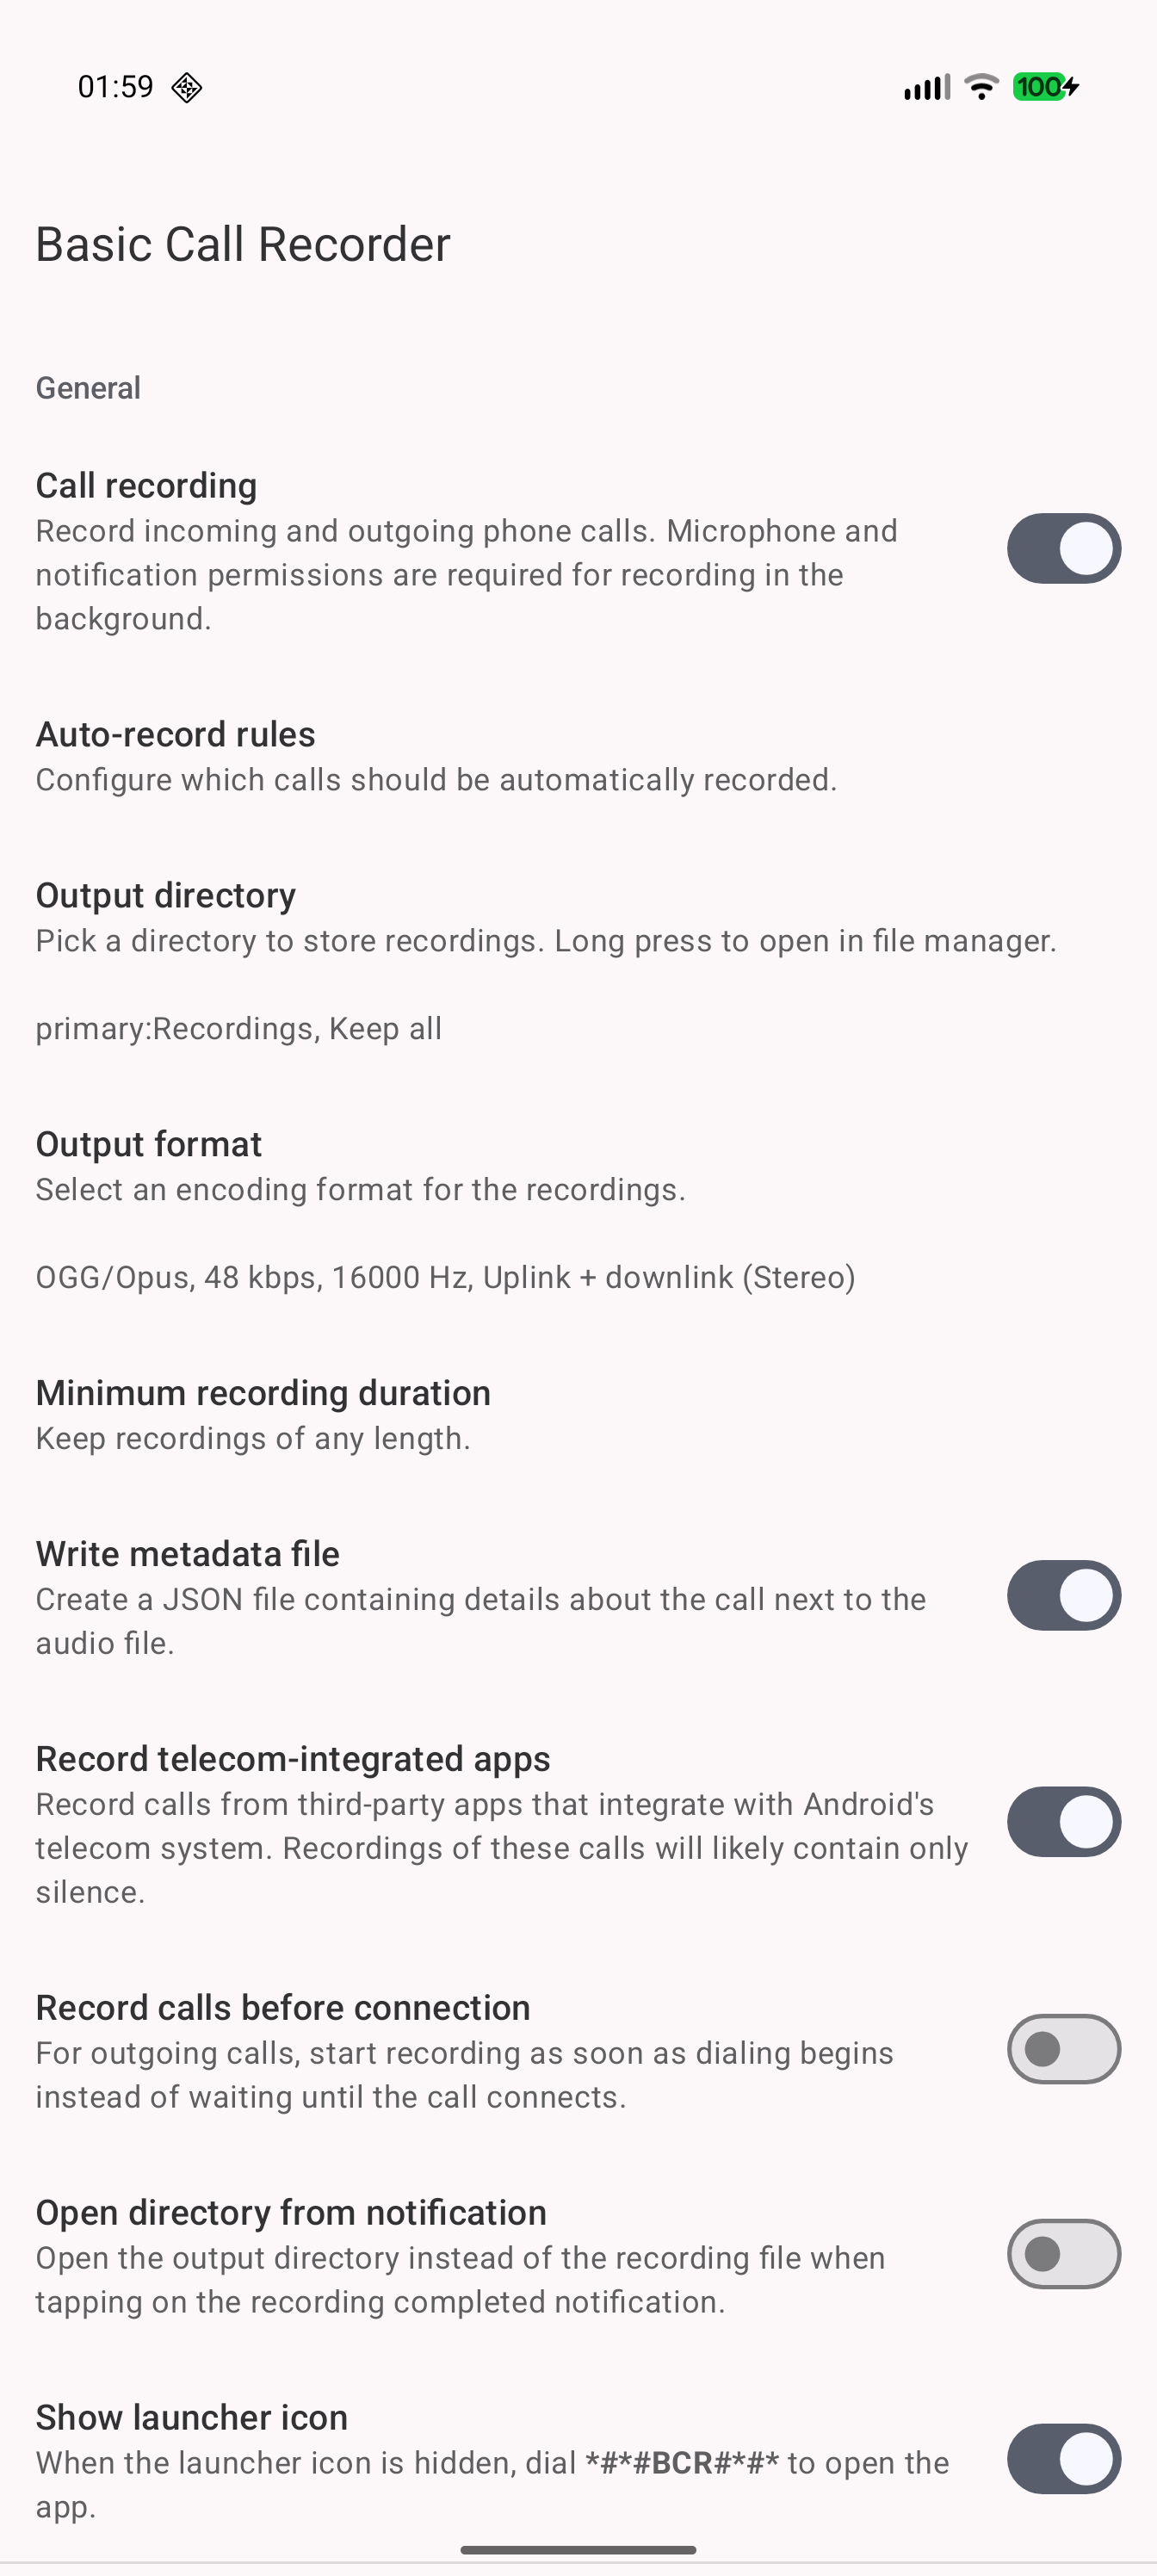
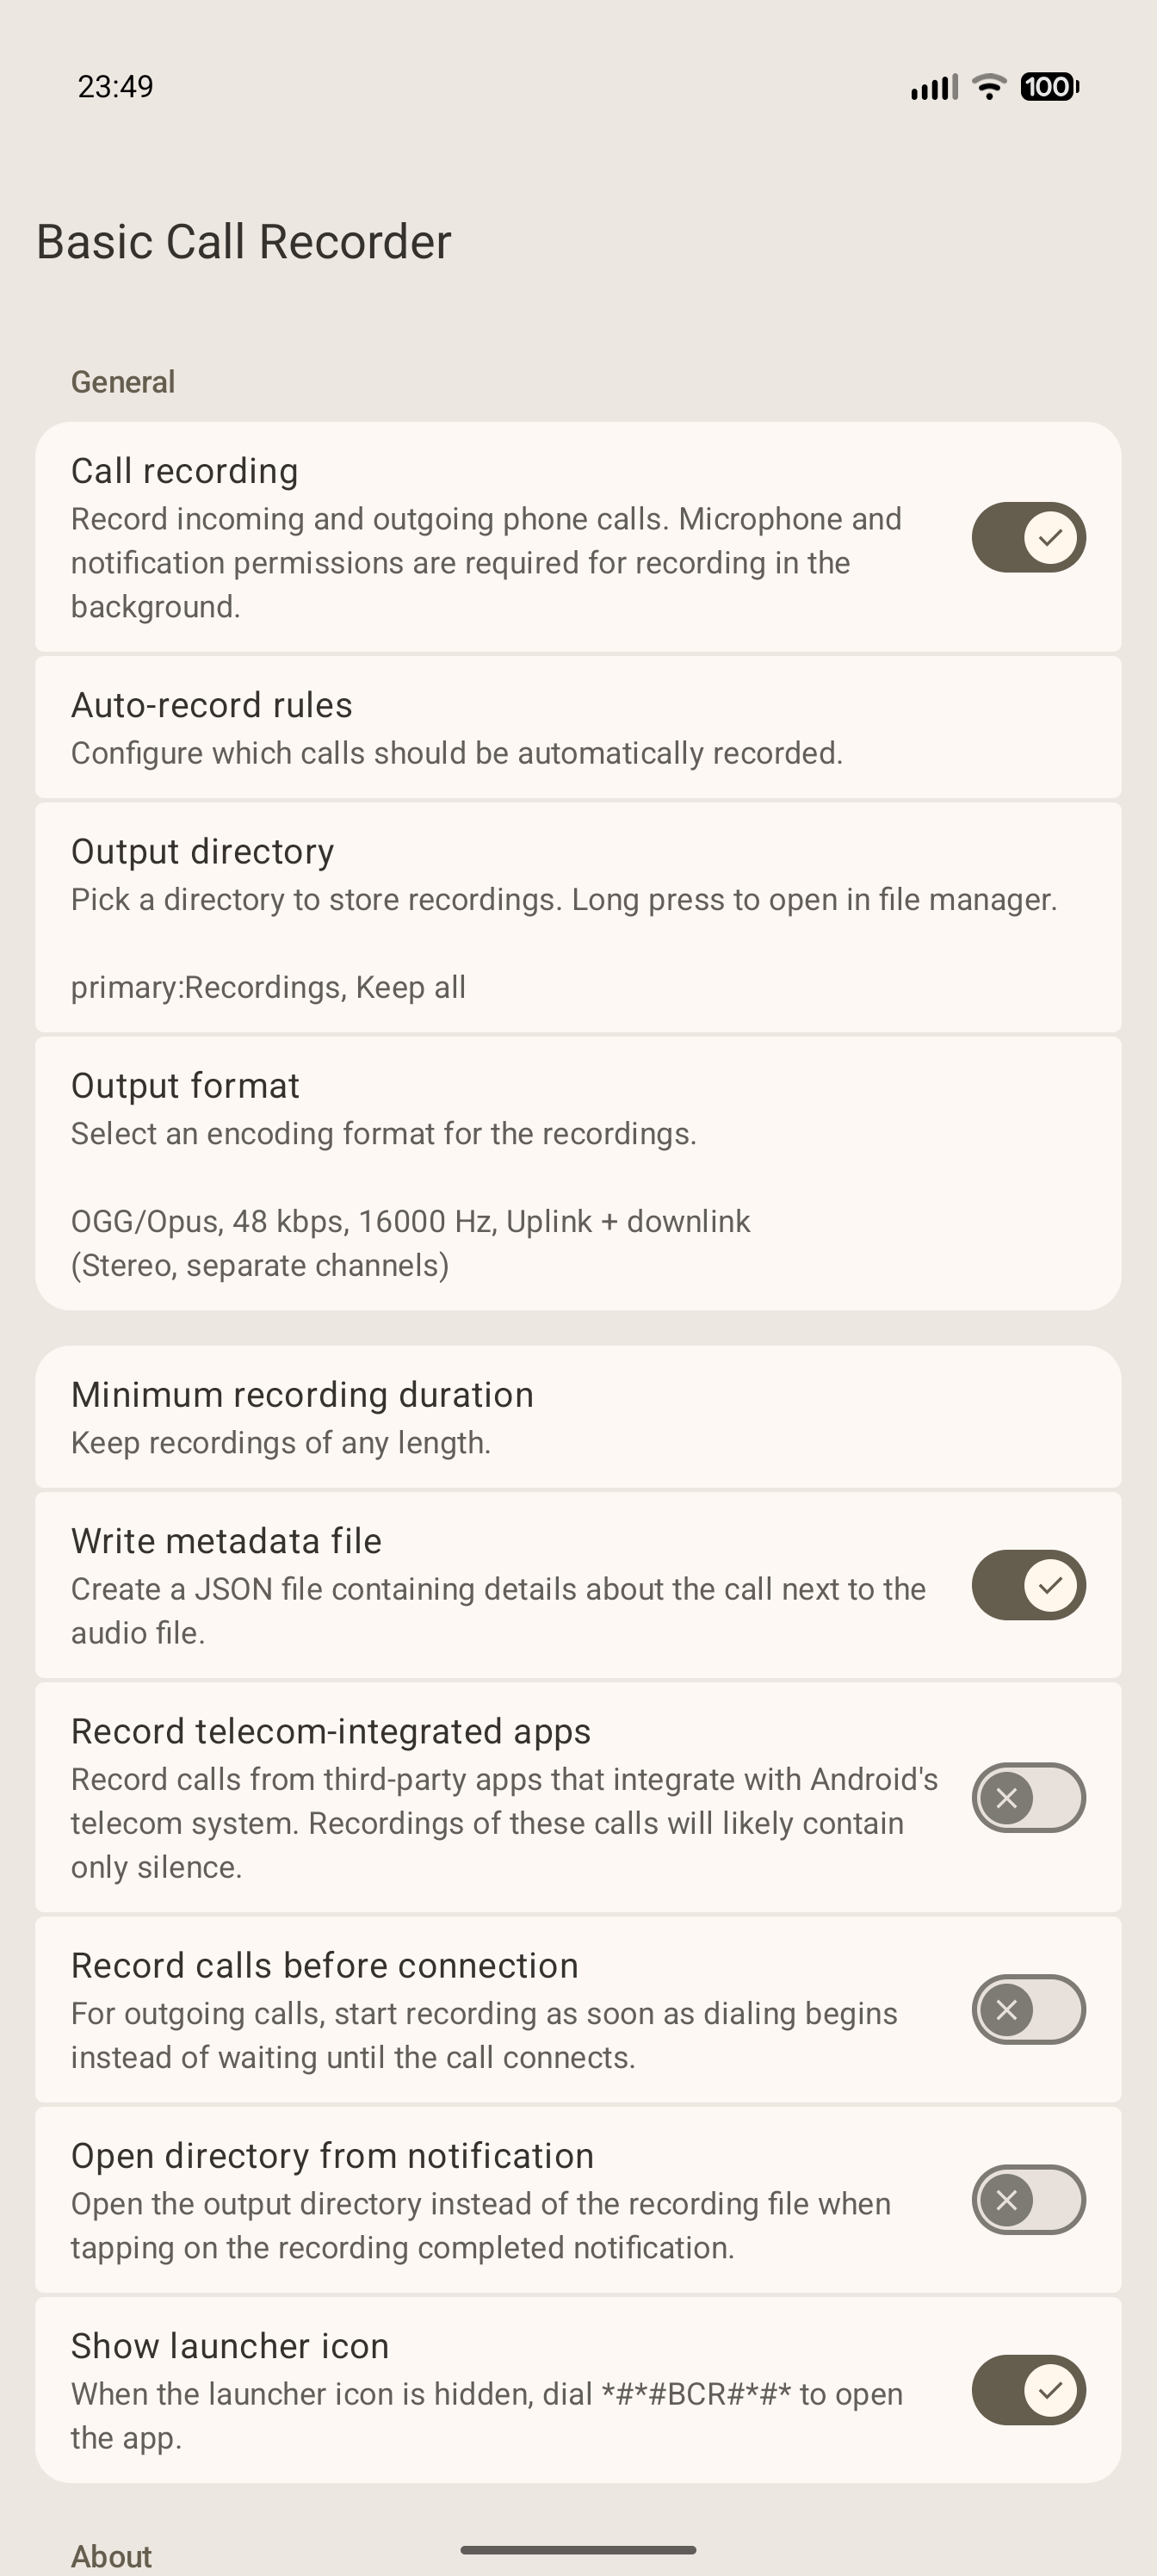
Version 3.0

diff --git a/CHANGELOG.md b/CHANGELOG.md
@@ -7,7 +7,7 @@
     to update the actual links at the bottom of the file.
 -->
 
-### Unreleased
+### Version 3.0
 
 * Port UI to Jetpack Compose and adopt Material 3 Expressive styling ([PR #878 @chenxiaolong])
 * Update Traditional Chinese (zh-TW) translations ([PR #869 @anenasa])